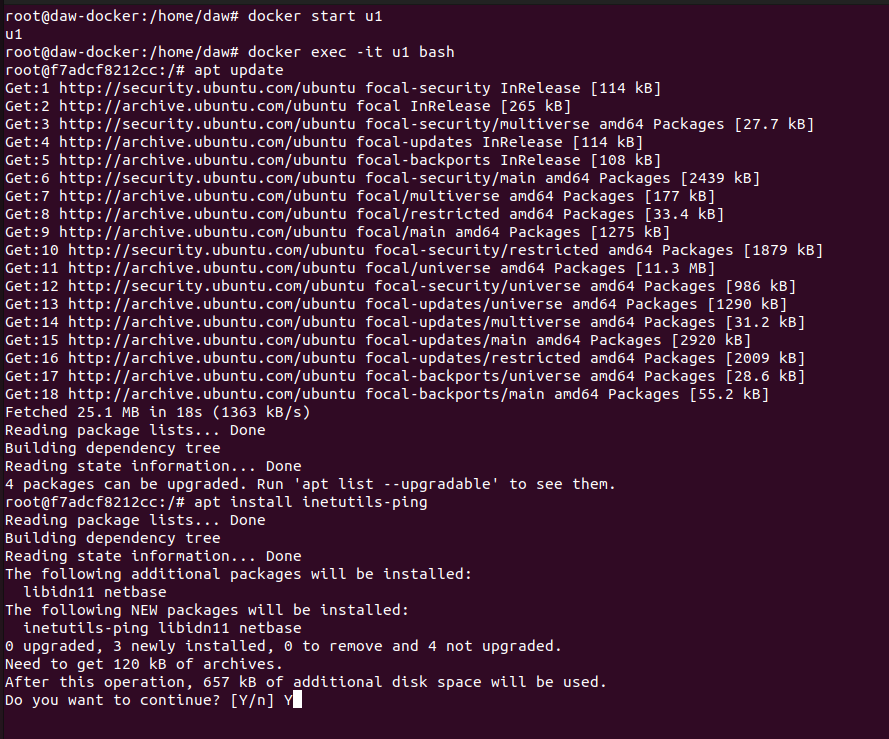
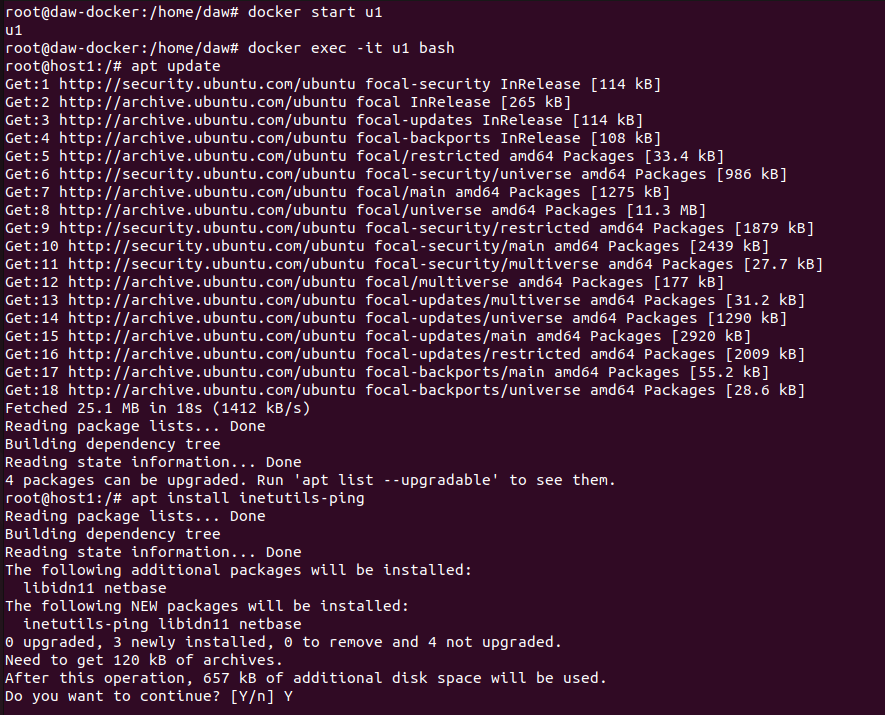
Tema 4 Ejercicio 4

Changed region(s): [[0.0, 0.0, 0.9458, 0.9846]]

diff --git a/TEMA 4/DOCKERT4.md b/TEMA 4/DOCKERT4.md
@@ -23,7 +23,8 @@
 2. **Poner en ejecución un contenedor de la imagen ubuntu:20.04 que tenga como hostname host1, como IP 172.28.0.10 y que esté conectado a la red1. Lo llamaremos u1.**
         
     ```sh
-    docker run -it --name u1 --network red1 --ip 172.28.0.10 ubuntu:20.04
+        docker run -it --name u1 --network red1 --hostname host1 --ip 172.28.0.10 ubuntu:20.04
+        docker start u1
     ```
     
     ![](./assets/ej2.PNG)
@@ -33,7 +34,6 @@
 3. **Entrar en ese contenedor e instalar la aplicacion ping ( apt update && apt install inetutils-ping).**
 
     ```sh
-        docker start u1
         docker exec -it u1 bash
         apt update
         apt install inetutils-ping
@@ -43,3 +43,13 @@
     
     Iniciamos el contenedor, entramos por bash e instalamos la herramienta ping.
     
+4. **Poner en ejecución un contenedor de la imagen ubuntu:20.04 que tenga como hostname host2 y que esté conectado a la red2. En este caso será docker el que le de una IP correspondiente a esa red. Lo llamaremos u2.**
+
+    ```sh
+        docker run -it --name u2 --network red2 ubuntu:20.04
+        docker start u2
+    ```
+    
+    ![](assets/ej4.PNG)
+    
+    Ponemos en ejecución la segunda máquina.
